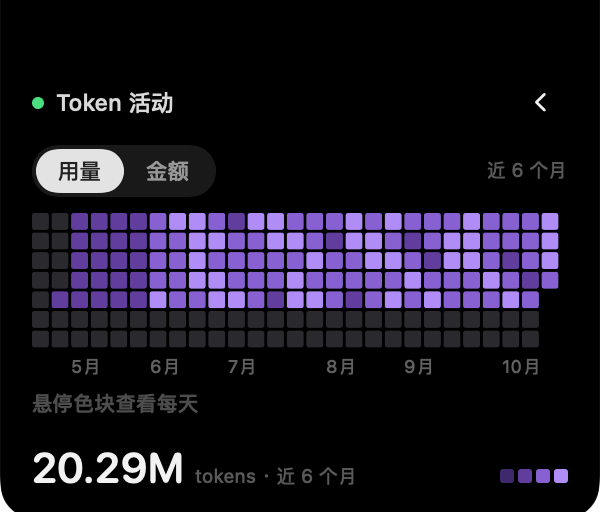
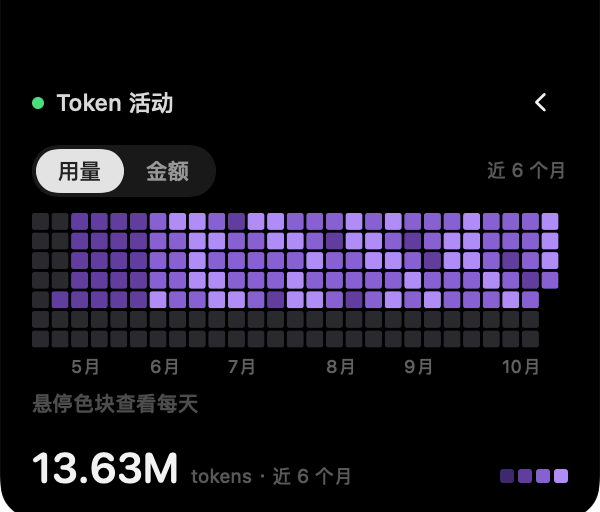
ui: 日历改为近 6 个月（27 周）+ 大字号；合计只算展示范围
macOS 1.6.1：
- 网格 53 周 → 27 周（约 6 个月），格子 4.4 → 8.4pt、间距 1.4、字号整体放大
- 悬停详情改为色块下方固定一行（不再用浮层盖数字）；日历页隐藏余额 footer，避免 256pt 高度溢出
- 合计只统计展示的 6 个月（之前会把快照里更早的 371 天一起加）
- --calendarcheck / 渲染图更新

Windows 1.2.1：
- TokenActivity 同样 27 列；热力图 8.4 逻辑像素、月份字号 9、合计 18pt
- 日历页高度 150 → 196，热力图/详情/合计重新排布；合计只算展示范围
- 版本 1.2.1（csproj/AppInfo/安装包）

Changed region(s): [[0.06, 0.875, 0.6, 0.9688]]

diff --git a/Sources/Views.swift b/Sources/Views.swift
@@ -364,11 +364,13 @@ struct BalanceCard: View {
     }
 
     private func activityTotalText(_ activity: TokenActivity) -> String {
+        // 只合计当前展示的 6 个月；快照里还有更早的数据，不能一起加。
+        let cells = TokenActivityCalendar.build(days: activity.days).allCells
         switch state.calendarMetric {
         case .tokens:
-            return TokenActivityCalendar.compactCount(activity.days.reduce(0) { $0 + $1.tokens })
+            return TokenActivityCalendar.compactCount(cells.reduce(0) { $0 + $1.tokens })
         case .money:
-            return "≈¥" + SessionCostSnapshot.formatCny(activity.days.reduce(0) { $0 + $1.cost })
+            return "≈¥" + SessionCostSnapshot.formatCny(cells.reduce(0) { $0 + $1.cost })
         }
     }
 

diff --git a/windows/src/DSHNotch/BalanceCardForm.cs b/windows/src/DSHNotch/BalanceCardForm.cs
@@ -12,7 +12,7 @@ public sealed class BalanceCardForm : Form
 {
     private const int CardWidth = 324;
     private const int BaseHeight = 214;
-    private const int CalendarHeight = 150;
+    private const int CalendarHeight = 196;
     private const int ErrorTop = 152;
 
     // 余额页
@@ -217,8 +217,8 @@ public sealed class BalanceCardForm : Form
         // ---- 日历页 ----
         _heatmap = new CalendarHeatmapControl
         {
-            Location = new Point(14, 34),
-            Size = new Size(296, 54),
+            Location = new Point(30, 38),
+            Size = new Size(264, 90),
             Visible = false,
         };
         _heatmap.HoverChanged += OnCalendarHover;
@@ -226,10 +226,10 @@ public sealed class BalanceCardForm : Form
         _calendarDetailLabel = new Label
         {
             Text = TokenActivityView.HoverHint,
-            Location = new Point(14, 92),
-            Size = new Size(296, 16),
+            Location = new Point(14, 132),
+            Size = new Size(296, 20),
             ForeColor = Color.FromArgb(135, 140, 148),
-            Font = new Font("Segoe UI", 8.5f),
+            Font = new Font("Segoe UI", 10.5f),
             AutoEllipsis = true,
             Visible = false,
         };
@@ -237,10 +237,10 @@ public sealed class BalanceCardForm : Form
         _calendarTotalLabel = new Label
         {
             Text = string.Empty,
-            Location = new Point(14, 112),
-            Size = new Size(296, 22),
+            Location = new Point(14, 158),
+            Size = new Size(296, 32),
             ForeColor = Color.FromArgb(232, 232, 236),
-            Font = new Font("Segoe UI", 12f, FontStyle.Bold),
+            Font = new Font("Segoe UI", 18f, FontStyle.Bold),
             AutoEllipsis = true,
             Visible = false,
         };
@@ -248,7 +248,7 @@ public sealed class BalanceCardForm : Form
         _calendarEmptyLabel = new Label
         {
             Text = TokenActivityView.EmptyPlaceholder,
-            Location = new Point(14, 62),
+            Location = new Point(14, 74),
             Size = new Size(296, 20),
             ForeColor = Color.FromArgb(180, 182, 188),
             Font = new Font("Segoe UI", 10f, FontStyle.Bold),
@@ -259,7 +259,7 @@ public sealed class BalanceCardForm : Form
         _calendarEmptyHintLabel = new Label
         {
             Text = TokenActivityView.EmptyHint,
-            Location = new Point(14, 86),
+            Location = new Point(14, 102),
             Size = new Size(296, 16),
             ForeColor = Color.FromArgb(120, 124, 132),
             Font = new Font("Segoe UI", 8.5f),
@@ -456,7 +456,7 @@ public sealed class BalanceCardForm : Form
         if (!showCalendarBody) return;
 
         _heatmap.SetData(view.Calendar, _metric);
-        _calendarTotalLabel.Text = "近 12 个月合计  " + view.TotalText;
+        _calendarTotalLabel.Text = "近 6 个月合计  " + view.TotalText;
         _calendarDetailLabel.Text = TokenActivityView.HoverHint;
         _calendarDetailLabel.ForeColor = Color.FromArgb(135, 140, 148);
     }

diff --git a/windows/src/DSHNotch/TokenActivity.cs b/windows/src/DSHNotch/TokenActivity.cs
@@ -203,10 +203,10 @@ public sealed class MonthLabel
     public string Label { get; }
 }
 
-/// <summary>53 列 × 7 行（周一开头、最后一列包含今天）的日历网格。</summary>
+/// <summary>27 列 × 7 行（近 6 个月，周一开头、最后一列包含今天）的日历网格。</summary>
 public sealed class ActivityCalendar
 {
-    public const int Weeks = 53;
+    public const int Weeks = 27;
     public const int DaysPerWeek = 7;
 
     public ActivityCalendar(IReadOnlyList<IReadOnlyList<ActivityCell?>> columns, IReadOnlyList<MonthLabel> monthLabels)
@@ -406,7 +406,7 @@ public static class TokenActivityCalendar
         return DayLabel(cell.Date) + " · " + cell.Text(metric);
     }
 
-    /// <summary>近 12 个月合计文案。</summary>
+    /// <summary>近 6 个月合计文案。</summary>
     public static string TotalText(IEnumerable<ActivityDay> days, ActivityMetric metric)
     {
         long tokens = 0;
@@ -475,6 +475,17 @@ public sealed class TokenActivityView
             return new TokenActivityView(calendar, hasData: false, totalText: string.Empty);
         }
 
-        return new TokenActivityView(calendar, hasData: true, TokenActivityCalendar.TotalText(days, metric));
+        // 合计只算当前展示的 6 个月（27 周），不能把快照里另外半年的数据也算进去。
+        long tokens = 0;
+        decimal cost = 0;
+        foreach (var cell in calendar.AllCells)
+        {
+            tokens += Math.Max(0, cell.Tokens);
+            cost += Math.Max(0, cell.Cost);
+        }
+        var totalText = metric == ActivityMetric.Money
+            ? "≈¥" + SessionCostFormat.Cny(cost)
+            : TokenActivityCalendar.CompactCount(tokens) + " tokens";
+        return new TokenActivityView(calendar, hasData: true, totalText);
     }
 }

diff --git a/windows/src/DSHNotch/CalendarHeatmapControl.cs b/windows/src/DSHNotch/CalendarHeatmapControl.cs
@@ -5,20 +5,20 @@ using System.Windows.Forms;
 namespace DSHNotch;
 
 /// <summary>
-/// 用量日历热力图：自绘 53 列 × 7 行色块（不创建几千个 Label）。
+/// 用量日历热力图：自绘 27 列 × 7 行色块（近 6 个月；不创建几百个 Label）。
 /// 悬停时白框高亮，并通过 <see cref="HoverChanged"/> 让卡片更新固定详情行。
 /// </summary>
 public sealed class CalendarHeatmapControl : Control
 {
-    private const float CellSize = 4.4f;
+    private const float CellSize = 8.4f;
     private const float Gap = 1.0f;
     private const float Pitch = CellSize + Gap;
-    private const int MonthLabelHeight = 14;
+    private const int MonthLabelHeight = 20;
 
     private static readonly float GridWidth = ActivityCalendar.Weeks * Pitch - Gap;
     private static readonly float GridHeight = ActivityCalendar.DaysPerWeek * Pitch - Gap;
 
-    private readonly Font _monthFont = new("Segoe UI", 7f);
+    private readonly Font _monthFont = new("Segoe UI", 9f);
     private readonly SolidBrush _monthBrush = new(Color.FromArgb(135, 122, 128, 138));
     private readonly Pen _hoverPen = new(Color.FromArgb(230, 255, 255, 255), 1f);
     private readonly SolidBrush _cellBrush = new(Color.Black);

diff --git a/windows/src/DSHNotch/AppInfo.cs b/windows/src/DSHNotch/AppInfo.cs
@@ -4,7 +4,7 @@ namespace DSHNotch;
 public static class AppInfo
 {
     public const string AppName = "DSHNotch";
-    public const string Version = "1.2.0";
+    public const string Version = "1.2.1";
     /// <summary>非打包桌面应用的 Application User Model ID，必须与开始菜单快捷方式里写的一致。</summary>
     public const string Aumid = "DSHNotch.Desktop";
     public const string ProtocolScheme = "dshnotch";
